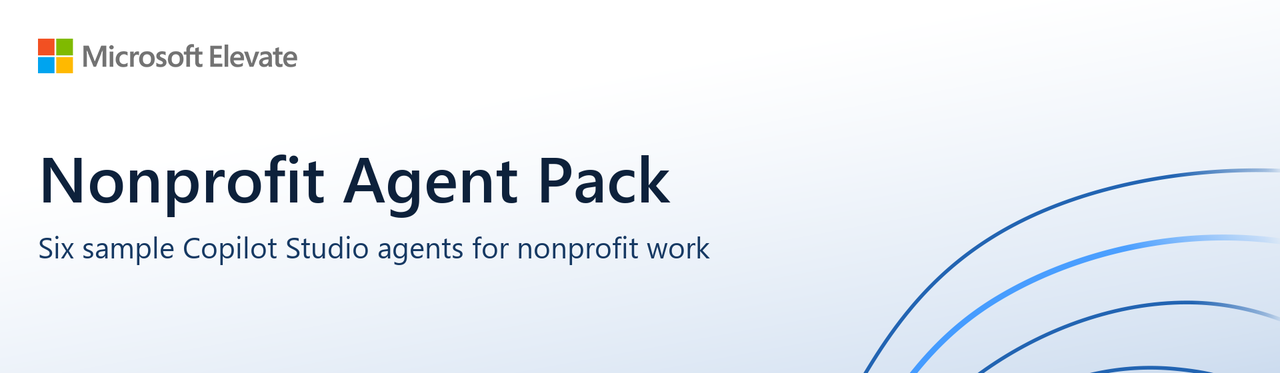
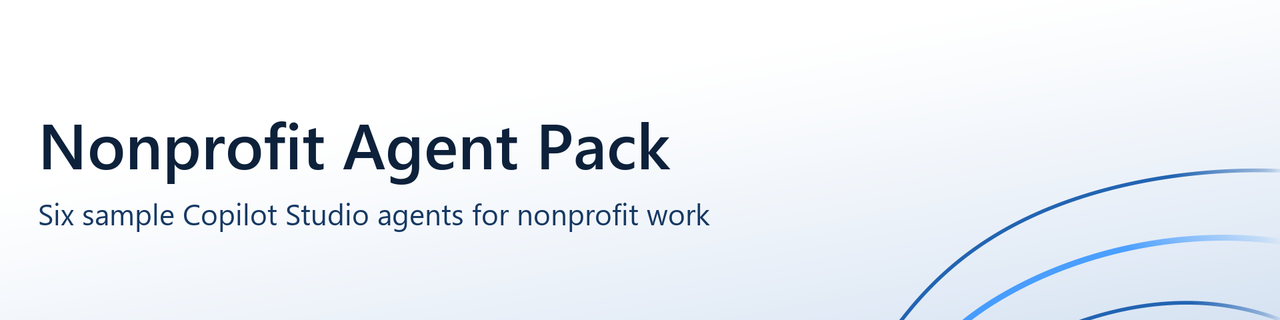
Nonprofit Agent Pack v1.0.7 (update)
Updates the v1.0.7 release files.

diff --git a/README.md b/README.md
@@ -1,4 +1,4 @@
-<p align="center"><img src=".github/images/banner.png" width="100%" alt="Microsoft Elevate. Nonprofit Agent Pack: six sample Copilot Studio agents for nonprofit work."></p>
+<p align="center"><img src=".github/images/banner.png" width="100%" alt="Nonprofit Agent Pack: six sample Copilot Studio agents for nonprofit work."></p>
 
 Agents for grant proposals, impact reports, agreement review, AI policy, IT help, and board packets. Each one works on your own documents and produces drafts for you to review. From Microsoft Elevate.
 
